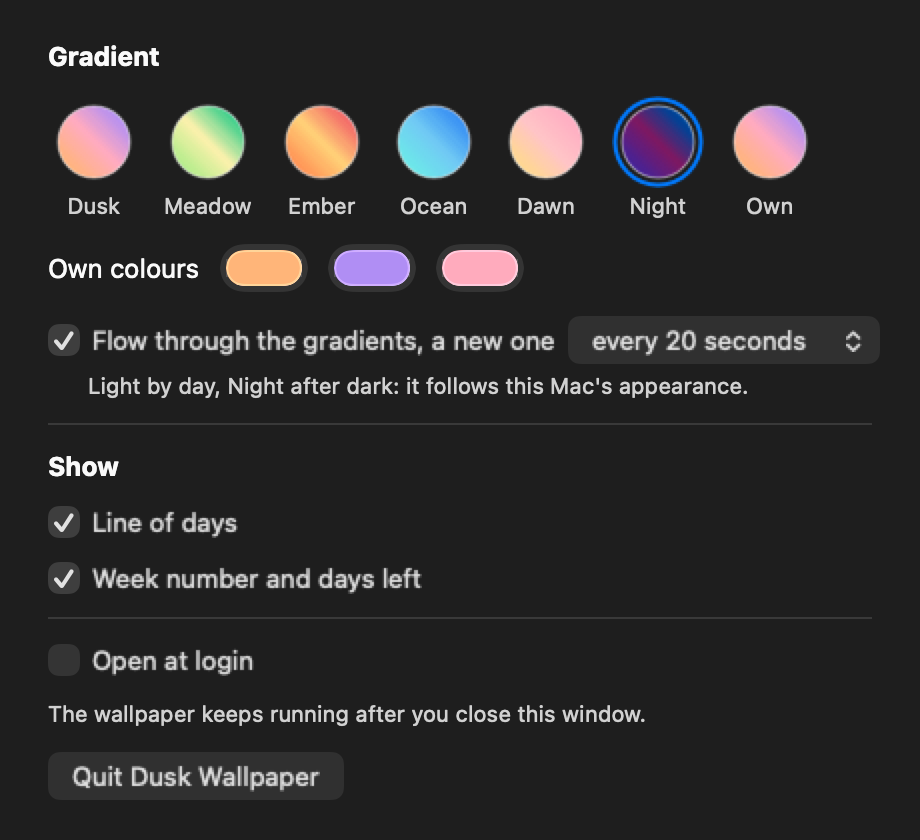
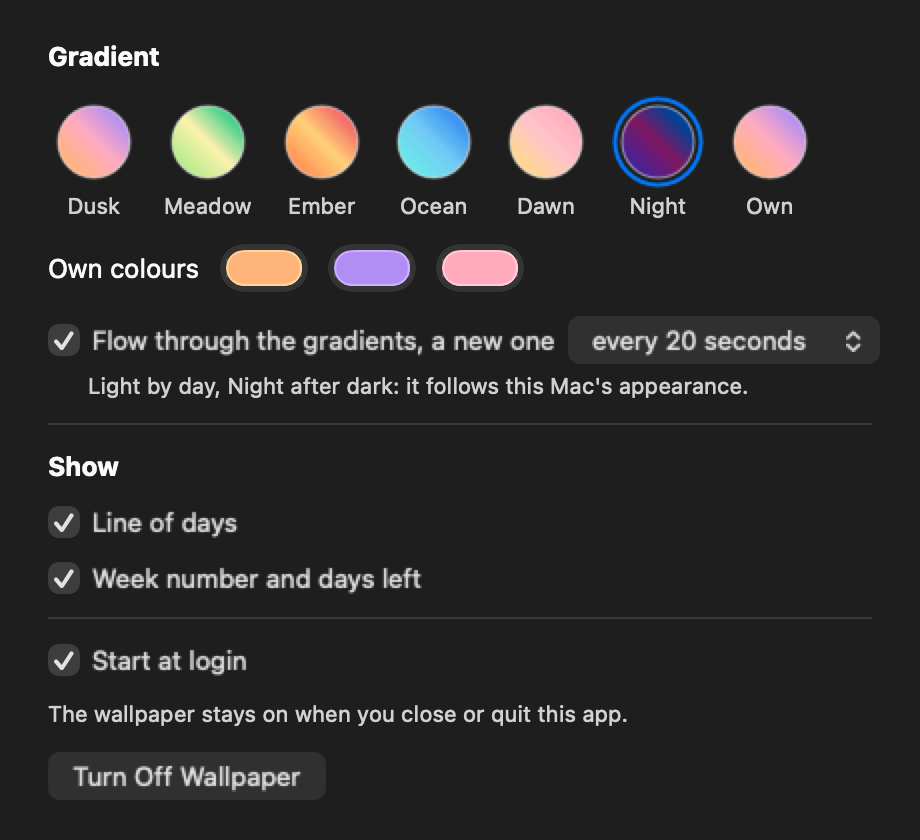
Behave like a wallpaper: stay up when the app quits, start at login
Quitting while the settings are open now only puts them away. The
wallpaper ends with Turn Off Wallpaper, with a quit in the background,
or when the Mac logs out, restarts or shuts down. A copy in an
Applications folder registers itself to start at login unless that is
unticked. build.sh --dmg packs a disk-image installer.

Changed region(s): [[0.0609, 0.8976, 0.3348, 0.9595], [0.213, 0.8357, 0.7, 0.8667], [0.0609, 0.7738, 0.2739, 0.8048]]

diff --git a/app/main.swift b/app/main.swift
@@ -4,7 +4,8 @@
 // nothing changes or nobody can see it. The gradient is a small 16-bit Display P3 bitmap that Core Animation stretches
 // over the screen; the type is two small alpha masks tinted with the palette's ink. Auto flows from one gradient to the
 // next in steps too small to see: round the light palettes by day and through shades of Night after dark, following
-// the Mac's Light and Dark appearance. Build and install with ./build.sh.
+// the Mac's Light and Dark appearance. It behaves as a wallpaper does: it starts with the Mac and stays up when the app
+// is quit, until it is turned off. Build and install with ./build.sh.
 //
 // Headless (no window; for checks and exports):
 //   DuskWallpaper --render out.png [--size 1800x1169] [--scale 2] [--date 2026-11-11] [--no-strip] [--no-info] [--no-text]
@@ -147,7 +148,7 @@ struct Settings: Codable {
     var mode = Mode.auto
     var preset = "dusk"
     var custom = Array(Presets.palette("dusk").c[0..<3])
-    var strip = true, info = true, openAtLogin = false
+    var strip = true, info = true, startAtLogin = true
     // Auto: what is on screen is a pure function of the clock and these three values, so nothing can drift.
     var pace: TimeInterval = 20
     var autoStart = Date(timeIntervalSinceReferenceDate: 0)
@@ -158,7 +159,7 @@ struct Settings: Codable {
         let c = try decoder.container(keyedBy: CodingKeys.self)
         func saved<T: Decodable>(_ key: CodingKeys, or value: T) -> T { (try? c.decode(T.self, forKey: key)) ?? value }
         mode = saved(.mode, or: mode); preset = saved(.preset, or: preset); custom = saved(.custom, or: custom)
-        strip = saved(.strip, or: strip); info = saved(.info, or: info); openAtLogin = saved(.openAtLogin, or: openAtLogin)
+        strip = saved(.strip, or: strip); info = saved(.info, or: info); startAtLogin = saved(.startAtLogin, or: startAtLogin)
         pace = saved(.pace, or: pace); autoStart = saved(.autoStart, or: autoStart); autoBase = saved(.autoBase, or: autoBase)
     }
 
@@ -545,7 +546,7 @@ final class TextMask: CALayer {
     private var status: NSStatusItem?
     private var panel: NSWindow?
     private var controls: Controls?
-    private var synced = "", glideEnd = Date.distantPast
+    private var synced = "", glideEnd = Date.distantPast, turningOff = false
     private var appearanceWatch: NSKeyValueObservation?
     /// Light or Dark, as the Mac is now. On a Mac whose appearance is set to Auto this turns at sunset and sunrise.
     private var isDark: Bool { NSApp.effectiveAppearance.bestMatch(from: [.aqua, .darkAqua]) == .darkAqua }
@@ -572,8 +573,10 @@ final class TextMask: CALayer {
         appearanceWatch = NSApp.observe(\.effectiveAppearance) { [weak self] _, _ in       // day turns to night, or back
             DispatchQueue.main.async { MainActor.assumeIsolated { self?.refresh() } }
         }
-        // A rebuilt app can lose its login registration; put it back if the owner asked for it.
-        if settings.openAtLogin && SMAppService.mainApp.status != .enabled { try? SMAppService.mainApp.register() }
+        // A wallpaper starts with the Mac unless its owner has said otherwise: once it sits in an Applications folder it
+        // registers itself, and again whenever a rebuild has cost it the registration. A copy run from anywhere else does not.
+        let installed = Bundle.main.bundleURL.deletingLastPathComponent().lastPathComponent == "Applications"
+        if settings.startAtLogin && installed && SMAppService.mainApp.status != .enabled { try? SMAppService.mainApp.register() }
         let event = NSAppleEventManager.shared().currentAppleEvent
         let atLogin = event?.eventID == kAEOpenApplication && event?.paramDescriptor(forKeyword: keyAEPropData)?.enumCodeValue == keyAELaunchedAsLogInItem
         let dock = NSRunningApplication.runningApplications(withBundleIdentifier: "com.apple.dock").first?.launchDate
@@ -581,6 +584,15 @@ final class TextMask: CALayer {
         if !atLogin && !justLoggedIn && !CommandLine.arguments.contains("--background") { showSettings() }
     }
     func applicationShouldHandleReopen(_ sender: NSApplication, hasVisibleWindows flag: Bool) -> Bool { showSettings(); return false }
+
+    /// Quitting while the settings are open only puts them away: the wallpaper stays up, as a wallpaper should.
+    /// It ends when it is turned off, when it is told to quit while in the background, and when the Mac logs out, restarts or shuts down.
+    func applicationShouldTerminate(_ sender: NSApplication) -> NSApplication.TerminateReply {
+        let leaving = NSAppleEventManager.shared().currentAppleEvent?.attributeDescriptor(forKeyword: AEKeyword(kAEQuitReason)) != nil
+        guard let panel, !turningOff, !leaving else { return .terminateNow }
+        panel.close()
+        return .terminateCancel
+    }
 
     /// The one update. Keeps one window per display, the date current, the right picture on screen and at most one timer armed.
     private func refresh(fade: CFTimeInterval? = nil) {
@@ -661,9 +673,10 @@ final class TextMask: CALayer {
         do { if sender.state == .on { try SMAppService.mainApp.register() } else { try SMAppService.mainApp.unregister() } }
         catch { NSAlert(error: error).runModal() }
         sender.state = SMAppService.mainApp.status == .enabled ? .on : .off
-        settings.openAtLogin = sender.state == .on
+        settings.startAtLogin = sender.state == .on
         settings.save()
     }
+    @objc private func turnOff() { turningOff = true; NSApp.terminate(nil) }
 
     // MARK: Menus
 
@@ -688,18 +701,16 @@ final class TextMask: CALayer {
         }
         menu.addItem(.separator())
         menu.addItem(withTitle: "Settings…", action: #selector(showSettings), keyEquivalent: ",").target = self
-        menu.addItem(withTitle: "Quit Dusk Wallpaper", action: #selector(NSApplication.terminate(_:)), keyEquivalent: "q")
+        menu.addItem(withTitle: "Turn Off Wallpaper", action: #selector(turnOff), keyEquivalent: "").target = self
     }
 
     private func buildMainMenu() {                                             // only seen while the settings window is open
         // macOS adds dictation and emoji items to an Edit menu by itself, and to one built in code several times over.
         UserDefaults.standard.register(defaults: ["NSDisabledDictationMenuItem": true, "NSDisabledCharacterPaletteMenuItem": true])
         let main = NSMenu(), appMenu = NSMenu(), file = NSMenu(title: "File"), edit = NSMenu(title: "Edit")
-        appMenu.addItem(withTitle: "About Dusk Wallpaper", action: #selector(NSApplication.orderFrontStandardAboutPanel(_:)), keyEquivalent: "")
-        appMenu.addItem(.separator())
         appMenu.addItem(withTitle: "Settings…", action: #selector(showSettings), keyEquivalent: ",").target = self
         appMenu.addItem(.separator())
-        appMenu.addItem(withTitle: "Quit Dusk Wallpaper", action: #selector(NSApplication.terminate(_:)), keyEquivalent: "q")
+        appMenu.addItem(withTitle: "Quit Dusk Wallpaper", action: #selector(NSApplication.terminate(_:)), keyEquivalent: "q")     // puts the settings away; see applicationShouldTerminate
         file.addItem(withTitle: "Close Window", action: #selector(NSWindow.performClose(_:)), keyEquivalent: "w")
         for (name, action, key) in [("Cut", #selector(NSText.cut(_:)), "x"), ("Copy", #selector(NSText.copy(_:)), "c"),      // so a colour code can be pasted
                                     ("Paste", #selector(NSText.paste(_:)), "v"), ("Select All", #selector(NSText.selectAll(_:)), "a")] {
@@ -760,14 +771,14 @@ final class TextMask: CALayer {
         }
         let strip = NSButton(checkboxWithTitle: "Line of days", target: self, action: #selector(toggleStrip(_:)))
         let info = NSButton(checkboxWithTitle: "Week number and days left", target: self, action: #selector(toggleInfo(_:)))
-        let login = NSButton(checkboxWithTitle: "Open at login", target: self, action: #selector(toggleLogin(_:)))
-        let quit = NSButton(title: "Quit Dusk Wallpaper", target: NSApp, action: #selector(NSApplication.terminate(_:)))
+        let login = NSButton(checkboxWithTitle: "Start at login", target: self, action: #selector(toggleLogin(_:)))
+        let off = NSButton(title: "Turn Off Wallpaper", target: self, action: #selector(turnOff))
 
         let stack = NSStackView(views: [
             label("Gradient", bold: true), row(swatches), row([label("Own colours")] + wells),
             flow, indent(label("Light by day, Night after dark: it follows this Mac's appearance.", small: true)), rule(),
             label("Show", bold: true), strip, info, rule(),
-            login, label("The wallpaper keeps running after you close this window.", small: true), quit])
+            login, label("The wallpaper stays on when you close or quit this app.", small: true), off])
         stack.orientation = .vertical
         stack.alignment = .leading
         stack.spacing = 12
@@ -807,6 +818,7 @@ final class TextMask: CALayer {
     func settingsPNG() -> Data? {
         let window = makePanel()
         guard let view = window.contentView else { return nil }
+        controls?.login.state = settings.startAtLogin ? .on : .off
         view.wantsLayer = true                                                 // give the picture the window's own background, light or dark
         view.effectiveAppearance.performAsCurrentDrawingAppearance { view.layer?.backgroundColor = NSColor.windowBackgroundColor.cgColor }
         view.layoutSubtreeIfNeeded()

diff --git a/README.md b/README.md
@@ -58,16 +58,18 @@ Needs Apple silicon, macOS 14 or later, and Apple's command-line tools (`xcode-s
 
 Click the sun in the menu bar. Pick a gradient, or let it flow.
 
+It starts with your Mac and stays on when you quit the app. *Turn Off Wallpaper*, in the same menu, stops it.
+
 <p align="center">
   <picture>
     <source media="(prefers-color-scheme: dark)" srcset="docs/settings-dark.png">
-    <img src="docs/settings-light.png" width="400" alt="The settings window: gradient swatches, your own colours, the flow and its pace, what to show, and open at login">
+    <img src="docs/settings-light.png" width="400" alt="The settings window: gradient swatches, your own colours, the flow and its pace, what to show, start at login, and Turn Off Wallpaper">
   </picture>
 </p>
 
 ## Remove
 
-Untick *Open at login*, quit from the menu, and move the app to the Trash.
+Untick *Start at login*, choose *Turn Off Wallpaper*, and move the app to the Trash.
 
 <details>
 <summary>More</summary>
@@ -82,6 +84,8 @@ Untick *Open at login*, quit from the menu, and move the app to the Trash.
 ```
 
 Every option is listed at the top of `app/main.swift`.
+
+**An installer to pass on.** `./build.sh --dmg "Dusk Wallpaper.dmg"` packs the app into a disk image: open it, drag the app to Applications. The app is not notarised by Apple, so on another Mac the first launch has to be allowed under System Settings › Privacy & Security.
 
 **Clear the settings.** `defaults delete local.dusk.wallpaper`
 
